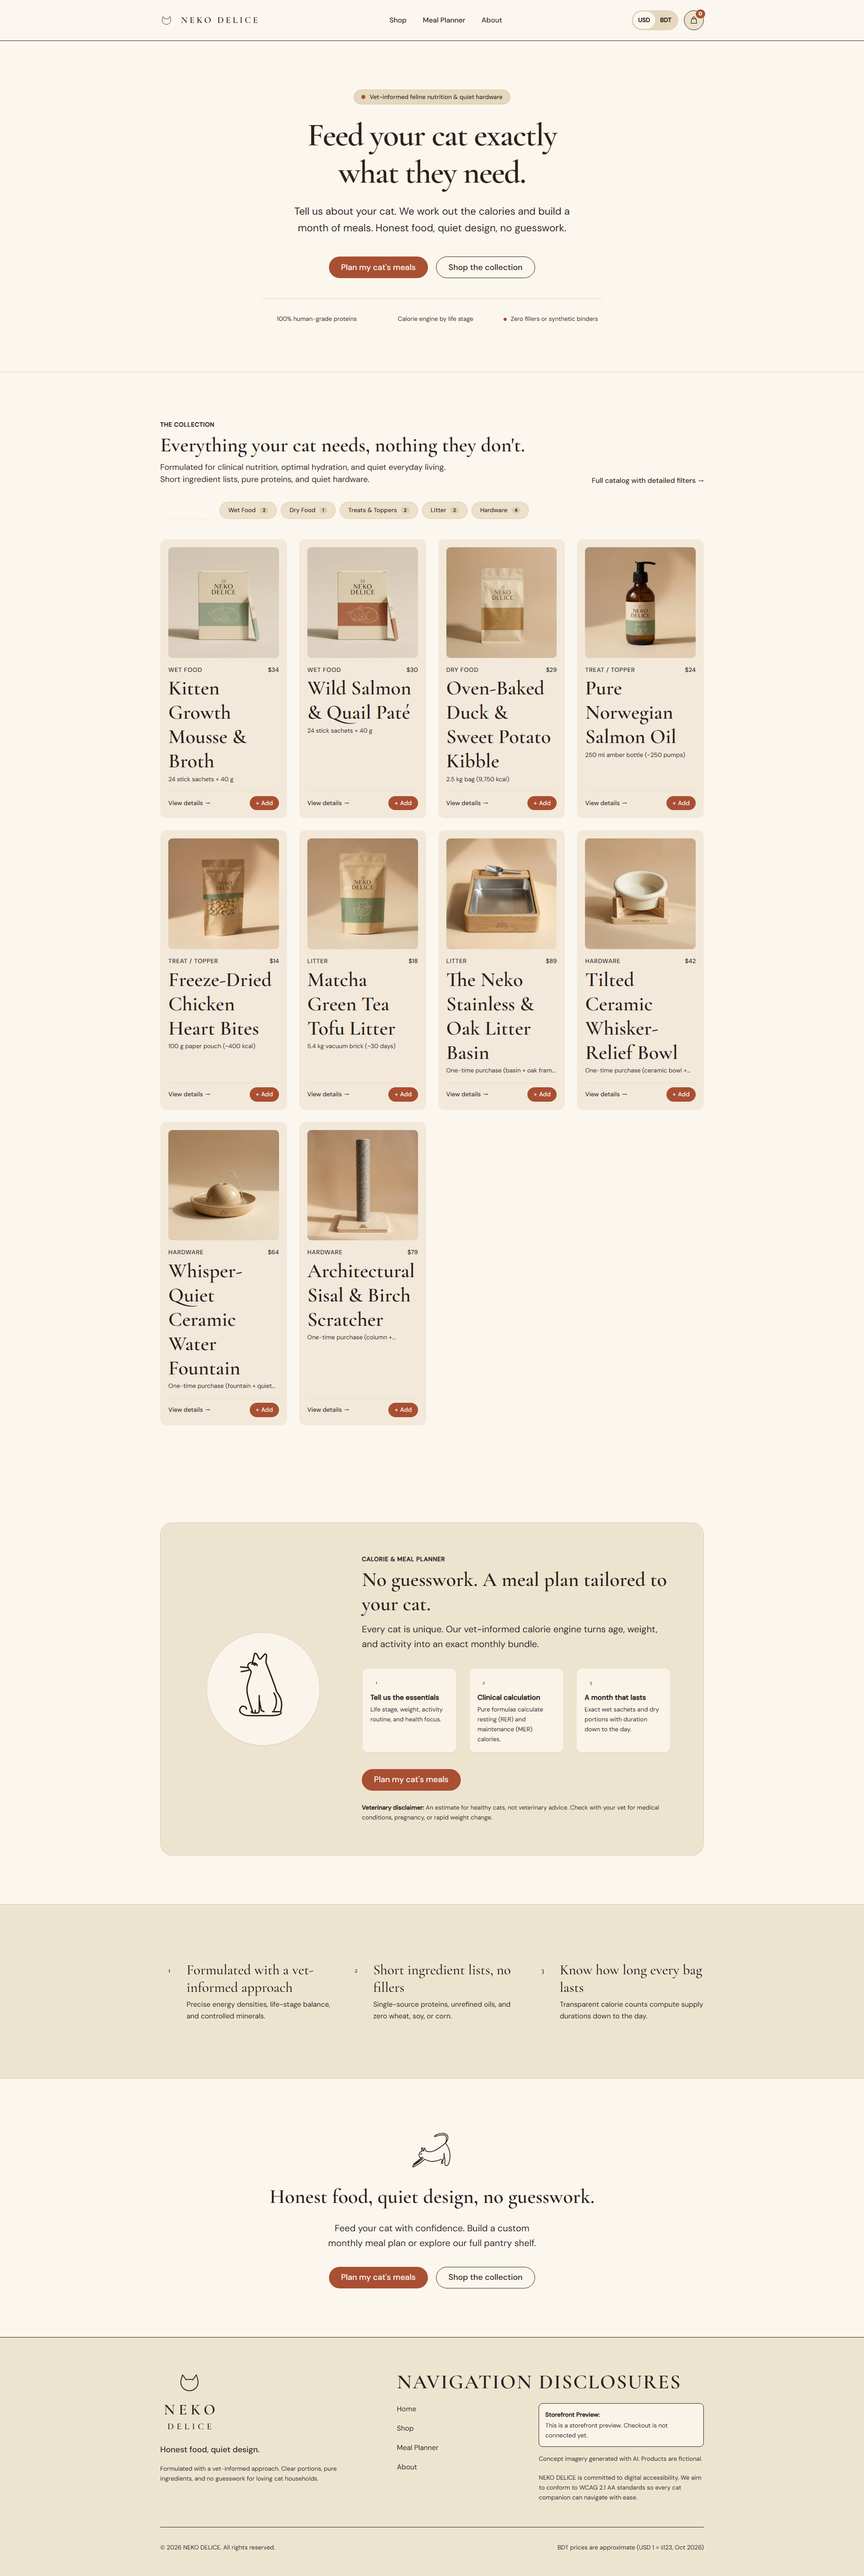
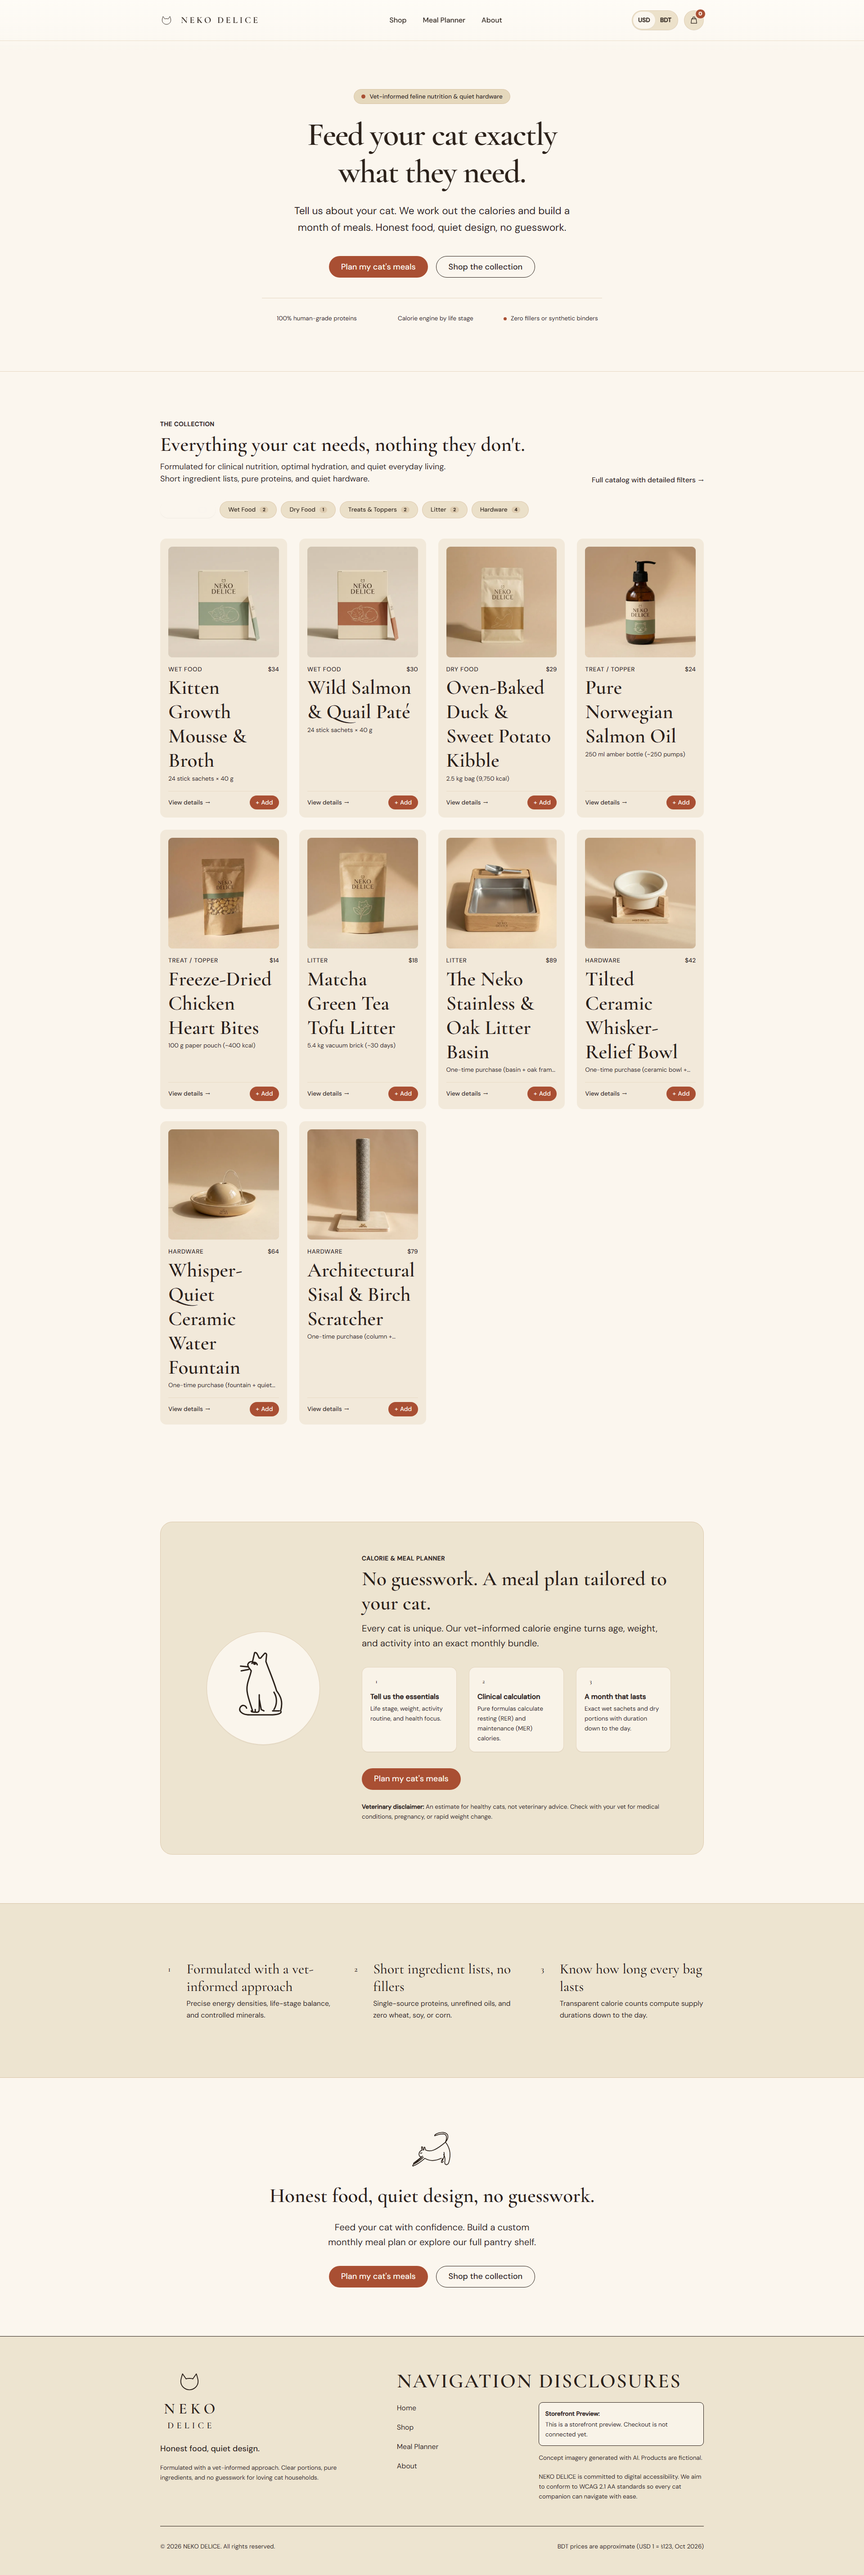
feat: remove header bottom hairline border for seamless glass blur transition

diff --git a/src/components/layout/Header.tsx b/src/components/layout/Header.tsx
@@ -42,20 +42,14 @@ export function Header() {
 
   return (
     <header className="sticky top-0 z-40 transition-colors">
-      {/* 7-layer progressive banded glass blur from C:\Projects\Resources\Fixed glasspannel */}
+      {/* Seamless 7-layer progressive banded glass blur from C:\Projects\Resources\Fixed glasspannel */}
       <ProgressiveBlur
-        height={mobileMenuOpen ? '100%' : 116}
+        height={mobileMenuOpen ? '100%' : 128}
         tint={
           mobileMenuOpen
             ? 'rgba(254, 252, 247, 0.98)'
-            : 'linear-gradient(to bottom, rgba(254, 252, 247, 0.88) 0%, rgba(254, 252, 247, 0.52) 65%, rgba(254, 252, 247, 0) 100%)'
+            : 'linear-gradient(to bottom, rgba(254, 252, 247, 0.85) 0%, rgba(254, 252, 247, 0.45) 55%, rgba(254, 252, 247, 0) 100%)'
         }
-      />
-      {/* Delicate hairline border at header baseline */}
-      <div
-        className="absolute inset-x-0 h-px bg-sand-300/50 pointer-events-none z-10"
-        style={{ top: 'clamp(4.5rem, 5vw, 5rem)' }}
-        aria-hidden="true"
       />
 
       <div className="relative z-10 max-w-[1280px] mx-auto px-4 sm:px-6 lg:px-8 h-18 sm:h-20 flex items-center justify-between gap-4">
